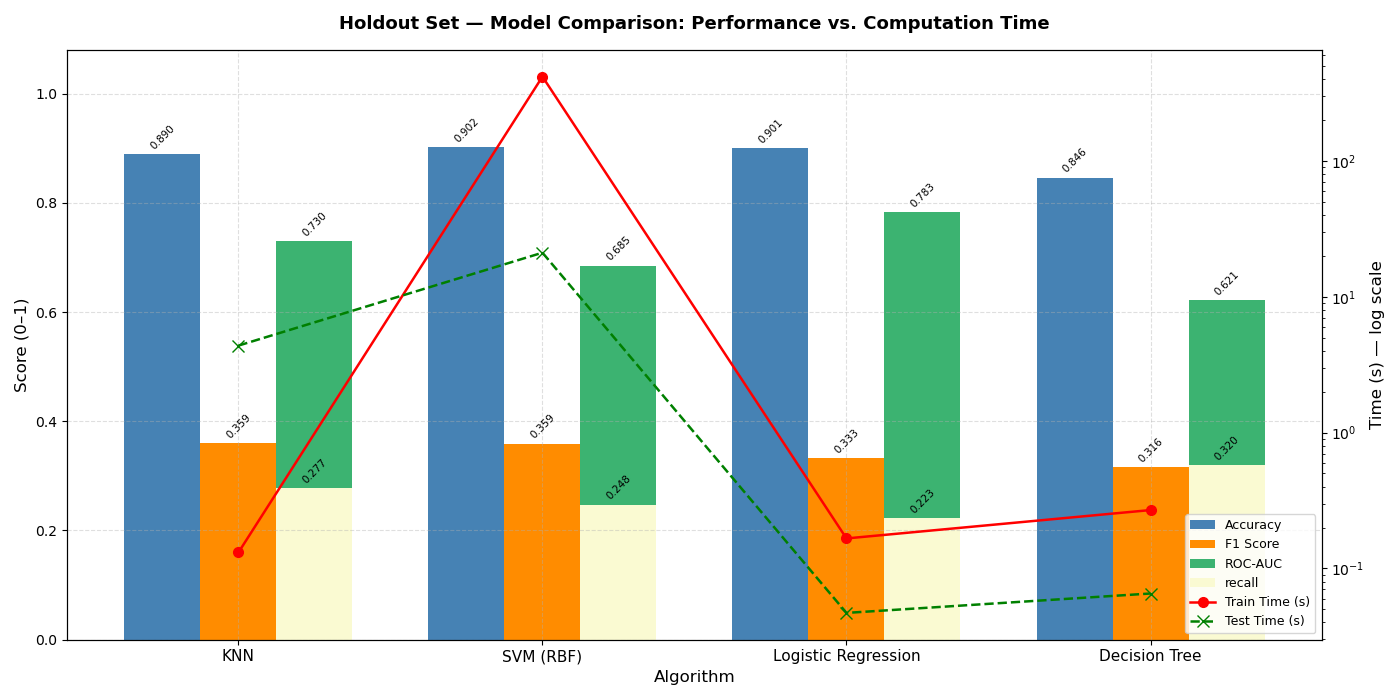
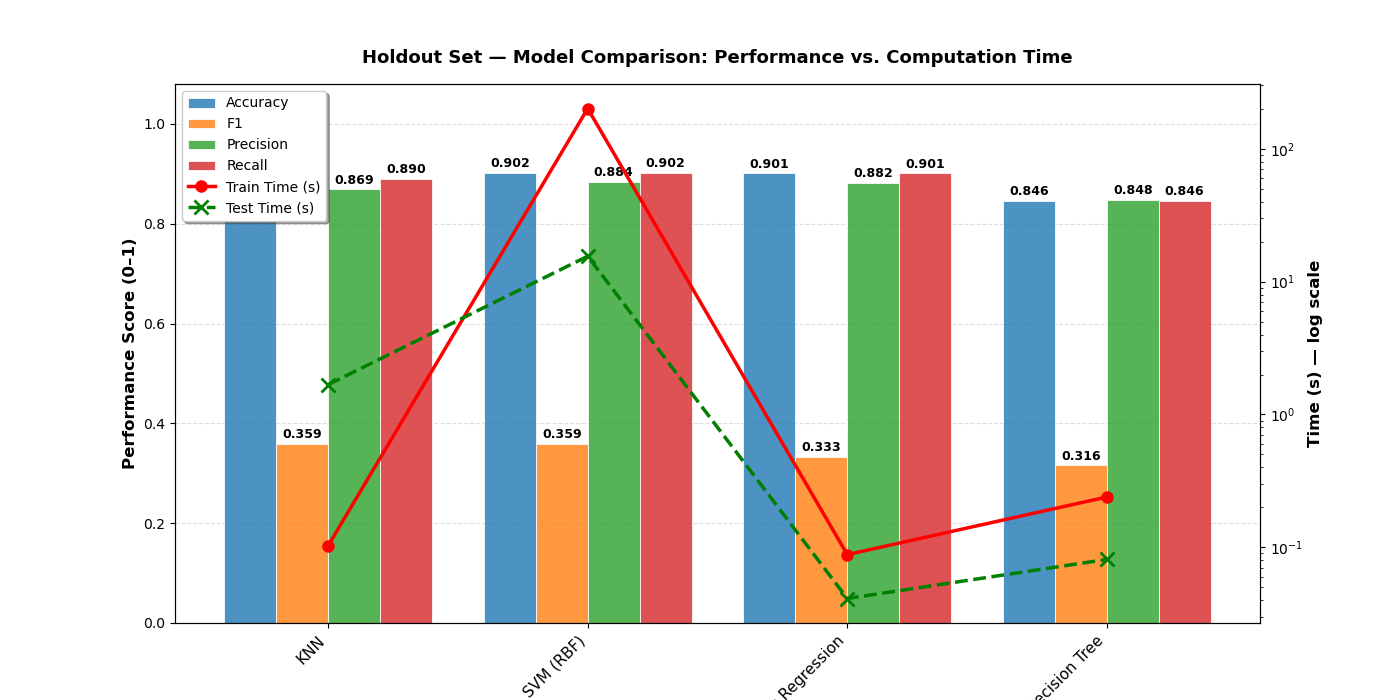
Fix holdout set comparison legend, add more key findings to readme, final markdown block in prompt 3

diff --git a/README.md b/README.md
@@ -18,7 +18,7 @@ A Portuguese bank conducted 17 marketing campaigns with the goal of increasing s
 
 ## Dataset
 
-The dataset is significantly imbalanced with only 10% clients who proceeded with term deposit subscriptions. 
+The dataset is significantly imbalanced with only 10% clients who proceeded with term deposit subscriptions.
 
 ## Data Preparation
 
@@ -41,19 +41,56 @@ The following metrics were employed to compare the models:
 
 ## Findings & Insight
 
-When using all available features, a turned SVM with the params:
-```
-  model__gamma: scale
-  model__class_weight: balanced
-  model__C: 0.5
-```
+![Final Model Comparison][/images/final_tuned_models_model_comparison.png]
 
-performed the best on a test set of 20% of the entire data with the following scores:
+When using all available features, a tuned SVM (RBF) Model provided the best scores, balancing efficiency and coverage.
 
-accuracy = 0.837364	
-precision =	0.363128
-recall = 0.610329	
-f1 = 0.455342
-f1_weighted = 0.854390
-f1_macro = 0.837364
-roc_auc = 0.770580
+- **Efficiency:** 36.3% conversion rate (> 1/3 contacted customers subscribes)
+- **Coverage:** Captures 61% of all potential subscribers in the dataset
+- **Real-world impact:** From 10,000 prospects, we can expect to contact ~1850 customers and gain ~670 new term deposit subscriptions.
+- **Caveat:** ~6 minutes for train time, 21 seconds for train time could be a latency bottleneck
+
+### Alternative Strategies
+
+**1. Limited Budget / High-Cost Contacts → Use KNN**
+
+When outreach costs are high (e.g. direct mail, dedicated advisors), minimizing
+wasted contacts is the priority.
+
+- **Efficiency:** 47.7% conversion rate — nearly 1 in 2 contacted customers subscribes
+- **Coverage:** 32.4% of potential subscribers reached
+- **Real-world impact:** From 10,000 prospects, contact a smaller, highly qualified
+  pool with a near coin-flip conversion rate — maximizing ROI per contact
+- **Latency:** Trains in 0.17 seconds, scores in 1.38 seconds, more ideal for real-time or large-scale scoring pipeliens
+
+**2. Maximum Market Penetration → Use Decision Tree**
+
+When the goal is to capture as many subscribers as possible regardless of contact volume:
+
+- **Efficiency:** 30% conversion rate — 3 in 10 contacts convert
+- **Coverage:** 64% of all potential subscribers reached — the highest recall of
+  any model
+- **Real-world impact:** Ideal for low-cost outreach channels (e.g. email, SMS)
+  where volume is affordable and missing a subscriber is the greater risk
+
+**3. Explainability & Regulatory Compliance → Use Logistic Regression**
+
+When decisions must be justified to stakeholders or auditors:
+
+- **Efficiency:** 33% conversion rate, on par with SVM
+- **Coverage:** 61% recall, matching SVM's reach
+- **Probability calibration:** Highest ROC-AUC at 0.787 — best model for
+  generating reliable subscription probability scores for lead ranking
+- **Speed advantage:** Trains in 0.17 seconds and scores in 0.03 seconds —
+  over **2,000× faster** than SVM, making it ideal for real-time or
+  large-scale scoring pipelines
+
+### Key Insights from Feature Analysis
+
+![Feature Importances and Coefficients][/images/feature_importance_and_coefficients.png]
+
+1. **Macroeconomic economic conditions dominate** `euribor3m` adn `cons.conf.idx` are strongest numerical predictors. Campaigns launched during periods of higher interest rates and consumer confidence yield better conversion rates.
+2. **Prior campaign success is strongest client-level signal.** Clients who subscribed in a previous campaign are highest-value re-engagement targets in any scenario.
+3. **Contact fatigue lowers probability.** The more a client has been contacted, the less likely they are to subscribe. Consider a contact cap policy.
+4. **Timing matters.** March and October outperform all other months. August, September, and November underperform. High-signal months can lift conversion without changing target audience.
+5. **Segment by life stage.** Retirees, students, and university-educated clients show the highest subscription likelihood. Blue-collor, unemployed, basic-education segments show lowest.
